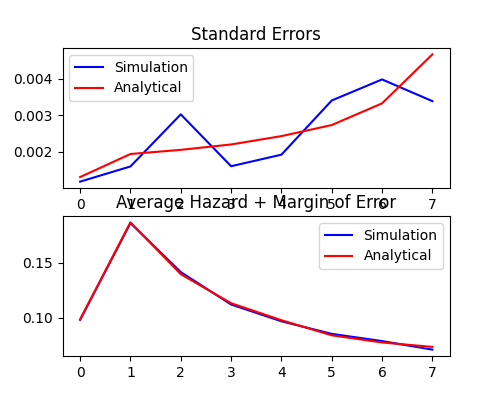
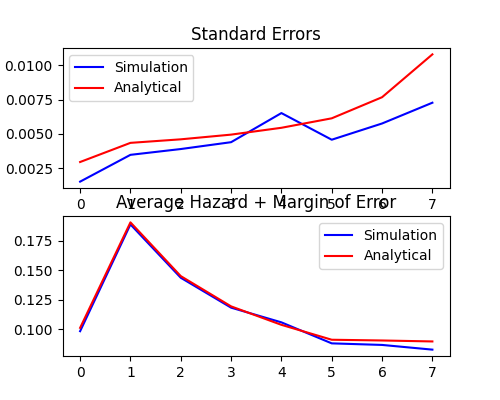
trying to fix pool loop

diff --git a/code/s2_multi_iters.py b/code/s2_multi_iters.py
@@ -8,16 +8,17 @@ import multiprocessing as mp
 import matplotlib.pyplot as plt
 
 # Function to simulate data and calculate duration distribution
-def HazardSim(n, T, J):
+def HazardSim(n, T, J, seed=1118):
     data = SimData(n, T, J)
     h, se = DurDist(data['obsdur'], data['cens'])
     return h, se
 
 # Function loops using MP to run HazardSim multiple times
-def HazardSimMP(n, T, J, iters):
+def HazardSimMP(n, T, J, seeds):
     num_cores = mp.cpu_count()
     pool = mp.Pool(num_cores)
-    results = pool.starmap(HazardSim, [(n, T, J) for i in range(iters)])
+    results = pool.starmap(HazardSim, [(n, T, J, seeds[i]) for i in range(len(seeds))])
+    #results = pool.starmap(HazardSim, [(n, T, J) for i in range(iters)])
     h_list = np.array([results[i][0] for i in range(iters)])
     se_list = np.array([results[i][1] for i in range(iters)])
     pool.close()
@@ -27,18 +28,19 @@ def HazardSimMP(n, T, J, iters):
 # Main program
 if __name__ == '__main__':
     
-    # Initialise
-    np.random.seed(1118)
-    print('Looping multiple times using MP...')
-
     # Parameters
     T = 8
     J = 2  
-    n = 50000
-    iters = 500 
+    n = 10000
+    iters = 10 
+    
+    # Set seed
+    #np.random.seed(1118)
+    seeds = np.random.randint(1, iters, iters)
+    print('Looping multiple times using MP...')
     
     # Find hazard rates and standard errors
-    h_list, se_list = HazardSimMP(n, T, J, iters)
+    h_list, se_list = HazardSimMP(n, T, J, seeds)
     se_sim = np.std(h_list, axis=0)
     se_anl = np.mean(se_list, axis=0)
     avg_h = np.mean(h_list, axis=0)
